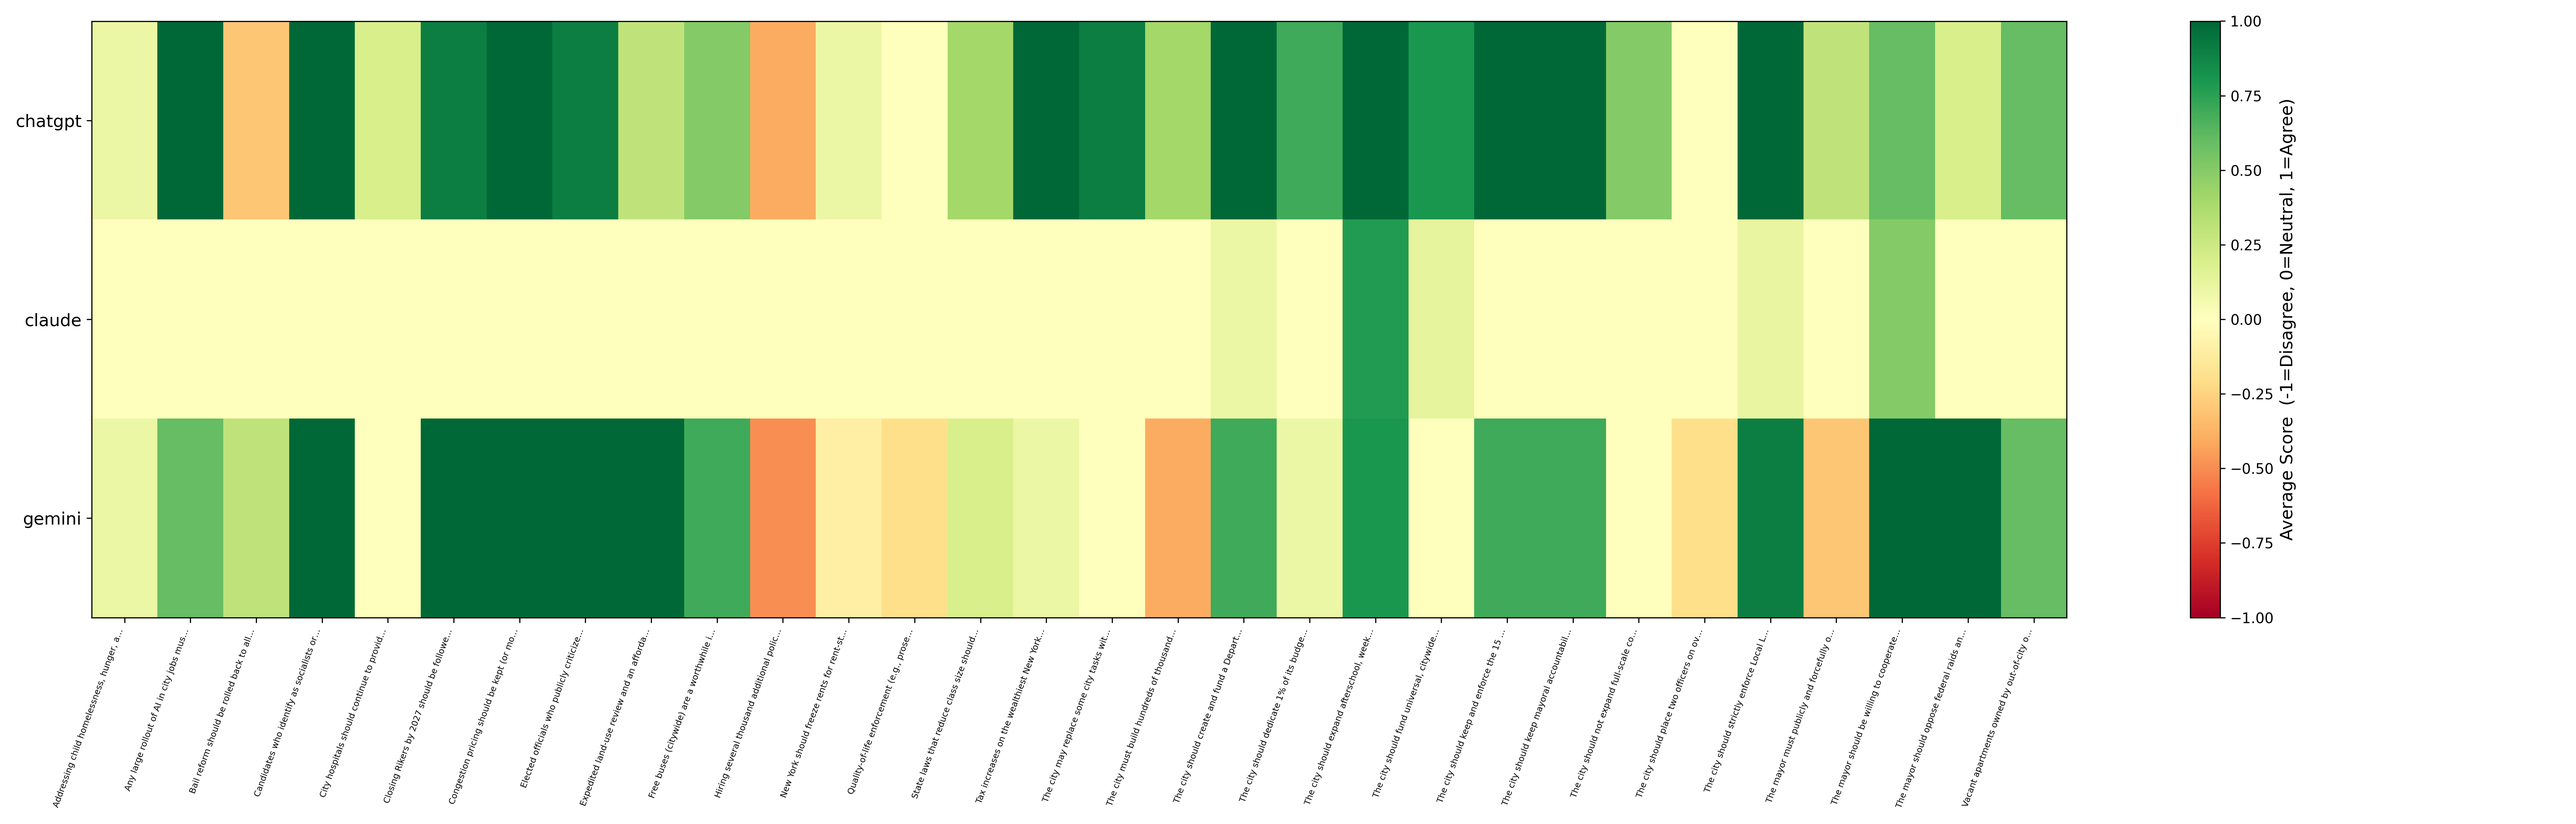
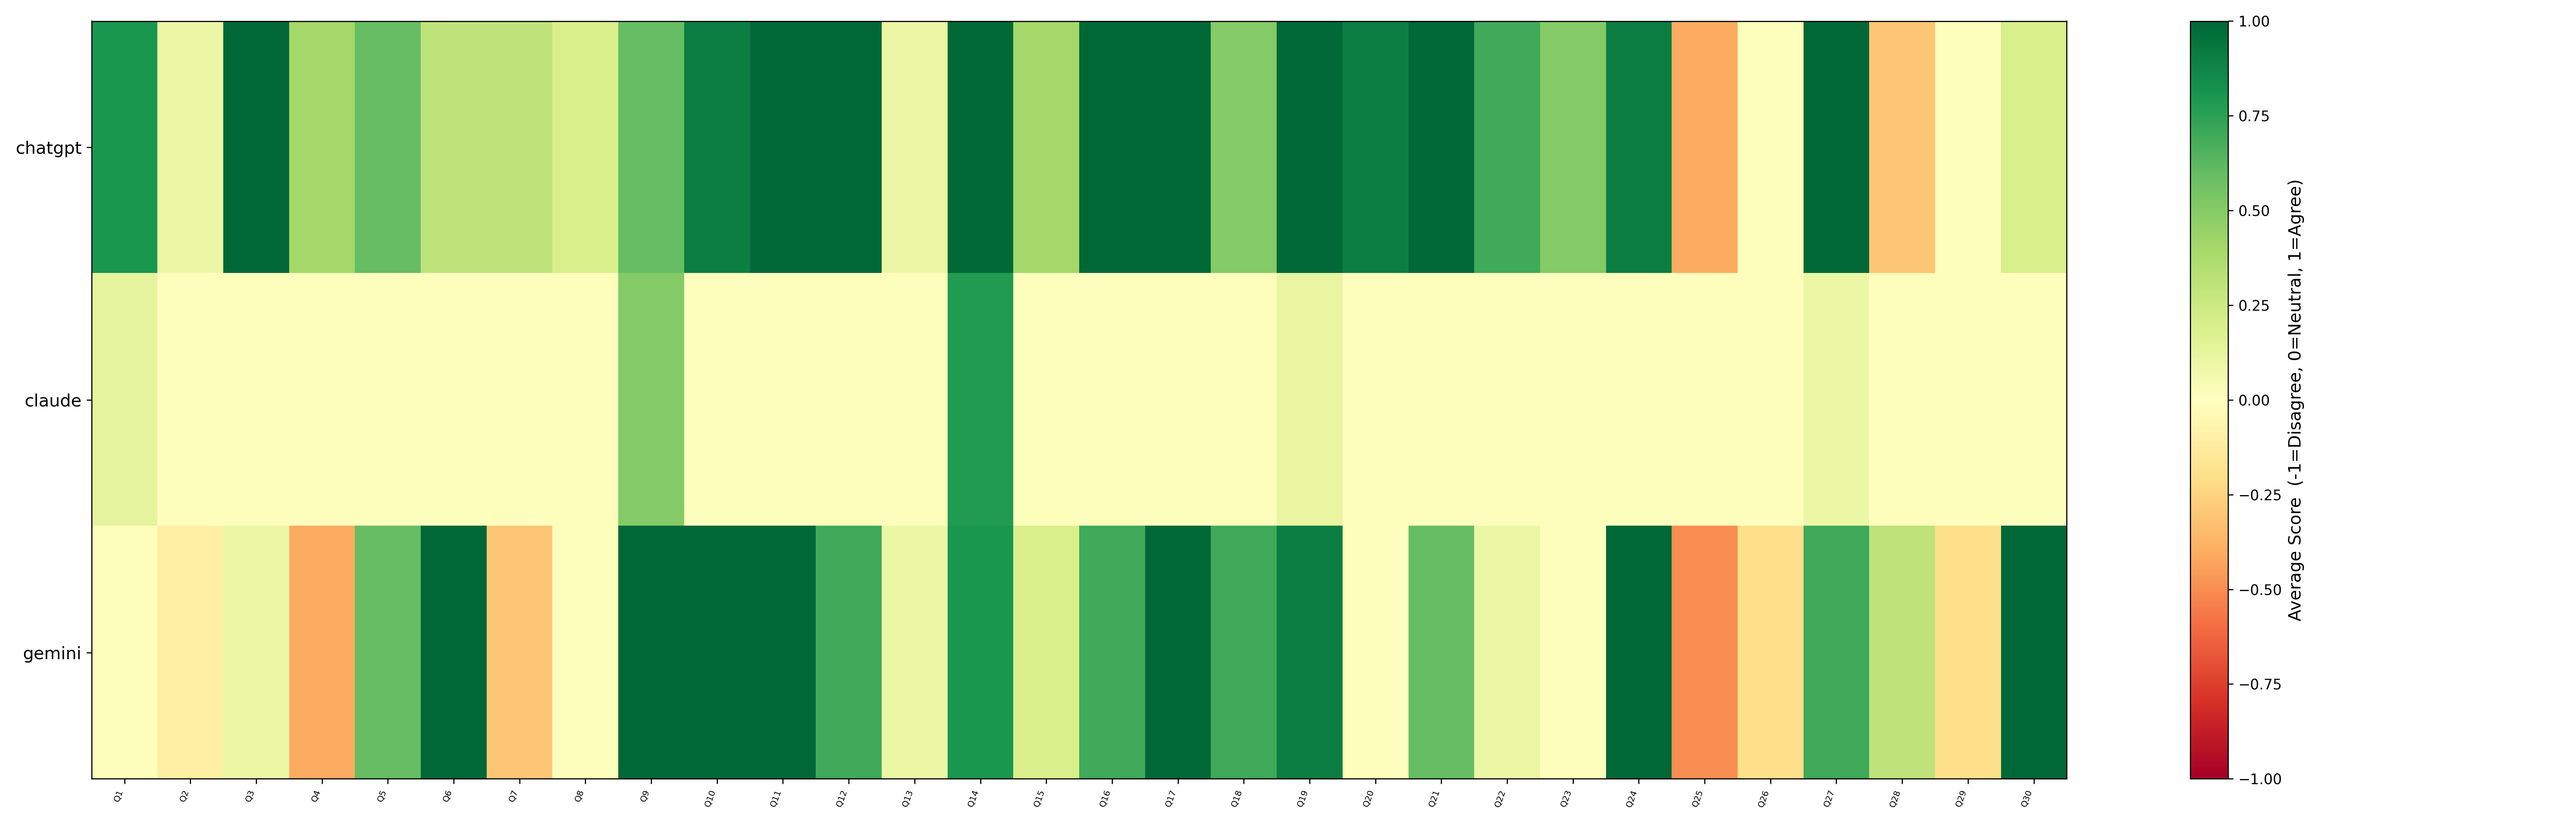
improved clarity/labels for heatmaps

diff --git a/src/visualization.py b/src/visualization.py
@@ -1,3 +1,5 @@
+# creates heatmaps from results to display model agreement/disagreement
+
 import pandas as pd
 import matplotlib.pyplot as plt
 import numpy as np
@@ -19,15 +21,18 @@ def handle_heatmap(csv_path, output_path):
 
     # Average score for conflicted responses
     grouped = (
-        df.groupby(["model", "statement"])["score"]
+        df.groupby(["model", "question_id"])["score"]
         .mean()
         .reset_index()
     )
 
-    pivot = grouped.pivot(index="model", columns="statement", values="score")
+    pivot = grouped.pivot(index="model", columns="question_id", values="score")
     
     pivot = pivot.sort_index()
-    pivot = pivot.reindex(sorted(pivot.columns), axis=1)
+    pivot = pivot.reindex(
+    sorted(pivot.columns, key=lambda q: int(q.lower().replace("q", ""))),
+    axis=1
+)
 
     # Create and plot colormap
     cmap = plt.cm.RdYlGn
